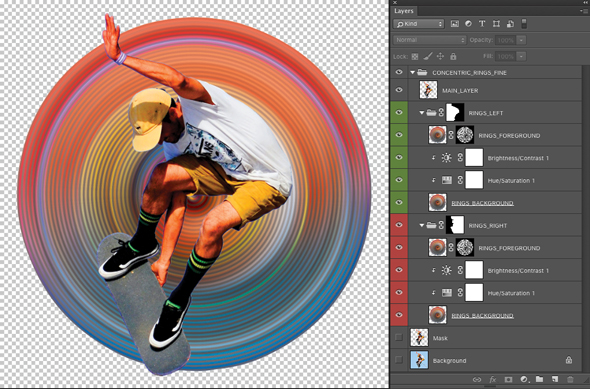
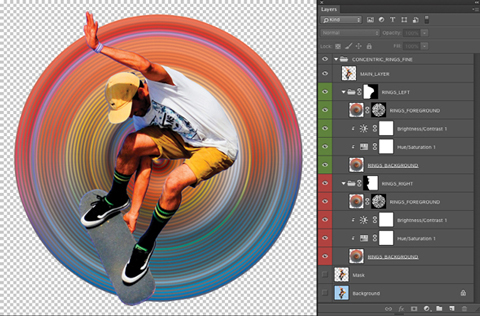
new

diff --git a/rings_html/index.html b/rings_html/index.html
@@ -52,11 +52,11 @@ untouched</li>
 <h3 style="color:#054F6D">Instructions:</h3>
 <ul style="color:#bababa; margin-left:30px;">
 <li>Open the image file</li>
-<li>Mask the main picture area</li>
+<li>Mask the main picture area<img src="https://raw.githubusercontent.com/akidaniel/almacen/gh-pages/rings_html/images/original.png"></li>
 <li>From the Actions Panel choose the action</li>
 <li>Click the Play Action button at the panel bottom</li>
 <li>The action ends with a New Layer Group named as the action played
-<img src="https://raw.githubusercontent.com/akidaniel/almacen/gh-pages/rings_html/images/original.jpg"></li>
+<img src="https://raw.githubusercontent.com/akidaniel/almacen/gh-pages/rings_html/images/capas.jpg"></li>
 <li>Open the image file</li>
 
 
